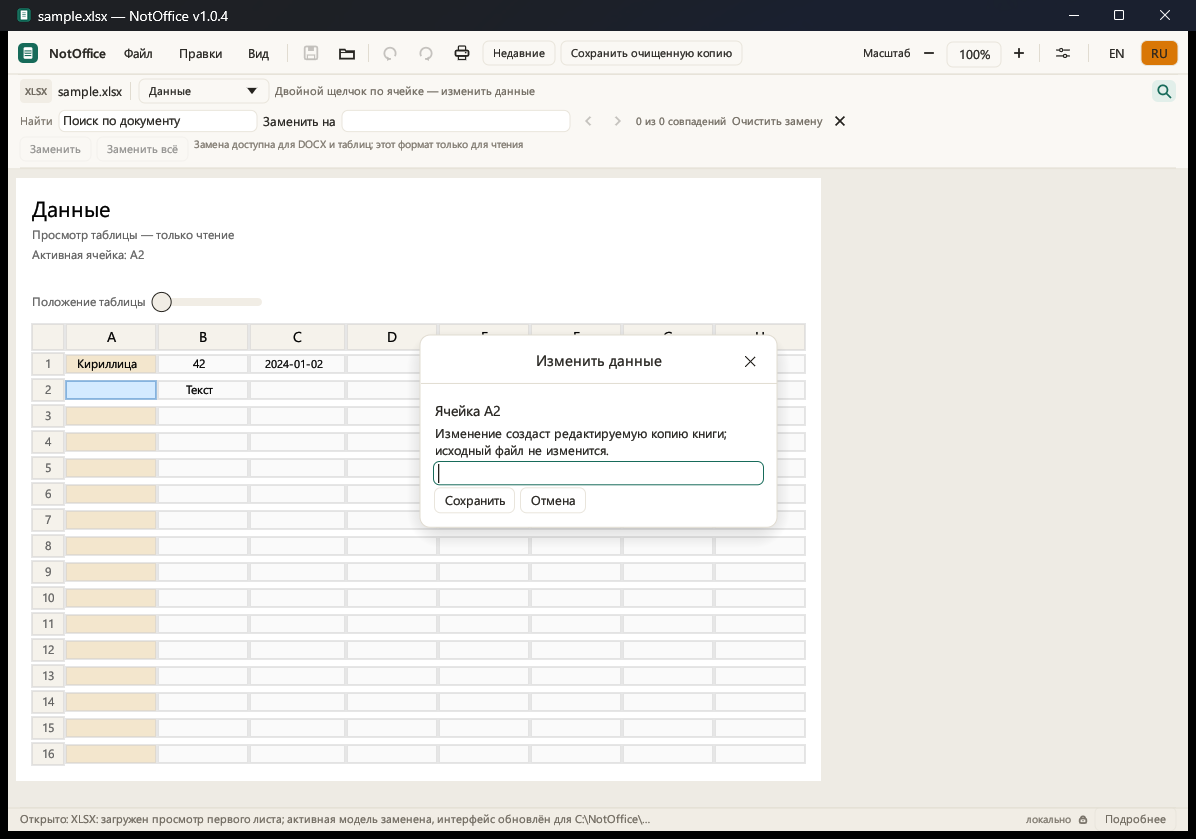
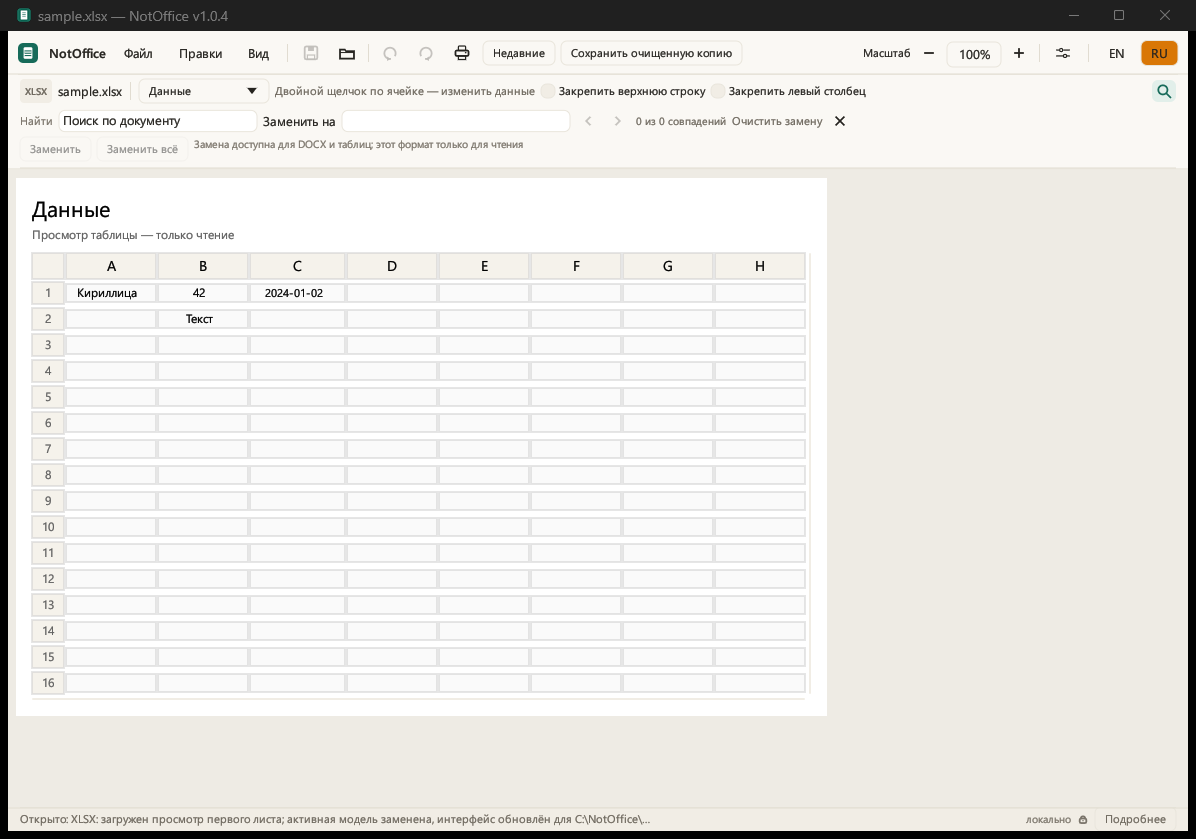
Add table row/column copy-paste and native horizontal scroll

diff --git a/site/index.html b/site/index.html
@@ -109,7 +109,7 @@
       <article class="feature-card">
         <div class="icon" aria-hidden="true">▦</div>
         <h3>Таблицы XLSX</h3>
-        <p>Правка ячеек, простые формулы <code>1+2</code> и <code>=A1+B1</code>, заполнение вниз, выбор строк/столбцов, очистка по Delete и ползунок положения.</p>
+        <p>Правка ячеек, простые формулы <code>1+2</code> и <code>=A1+B1</code>, заполнение вниз, выбор и копирование строк/столбцов, очистка по Delete и горизонтальная прокрутка.</p>
         <div class="tags"><span>формулы</span><span>заполнение</span><span>строки/столбцы</span></div>
       </article>
       <article class="feature-card">
@@ -209,7 +209,7 @@
       </div>
       <div class="release-grid">
         <article><span class="release-num">01</span><h3>Формулы в ячейке</h3><p>Наберите <code>1+2</code> или <code>=1+2</code>, нажмите Enter — в ячейке появится результат. Ссылки A1, скобки, <code>+ − × ÷</code>.</p></article>
-        <article><span class="release-num">02</span><h3>Таблицы удобнее</h3><p>Ползунок положения, стрелки на заголовках, Delete для выбранной строки/столбца и синий маркер заполнения вниз с продолжением последовательности.</p></article>
+        <article><span class="release-num">02</span><h3>Таблицы удобнее</h3><p>Горизонтальная прокрутка внизу, закрепление верхней строки/левого столбца, копирование строк/столбцов, Delete и заполнение вниз.</p></article>
         <article><span class="release-num">03</span><h3>Текст без сюрпризов</h3><p>Enter в DOCX переносит на новую строку и сохраняется, фокус не теряется. Поиск и замена всегда на виду.</p></article>
         <article><span class="release-num">04</span><h3>Меньше визуального шума</h3><p>Убраны лишние пункты меню. «Недавние» открываются в новом окне, recovery-каталоги можно удалить с подтверждением.</p></article>
       </div>
@@ -233,7 +233,7 @@
       <figure class="shot-card">
         <div class="app-bar"><i></i><i></i><i></i><span>XLSX · таблица</span></div>
         <img src="assets/notoffice-xlsx.png" alt="NotOffice с таблицей XLSX и диалогом изменения данных" width="1196" height="839" loading="lazy">
-        <figcaption>XLSX: правка через диалог, формулы и заголовки вместе с таблицей.</figcaption>
+        <figcaption>XLSX: правка через диалог, формулы, заголовки и горизонтальная прокрутка.</figcaption>
       </figure>
     </div>
   </section>
@@ -295,7 +295,7 @@
       </div>
       <div class="download-meta">
         <div class="meta-title">Контрольная сумма EXE</div>
-        <code id="sha">B7EBB52139920F4F54A1EE782328533DA05E4E13C0F60A90687F0D6B7CBA4694</code>
+        <code id="sha">8864BE8FF3B8065D294E80831082709B3EC2F658C0A31666D15F5ACBF894C4DA</code>
         <button class="copy-btn" id="copy-sha" type="button">Скопировать</button>
         <dl>
           <div><dt>Версия</dt><dd>1.0.4</dd></div>

diff --git a/src/spreadsheet_ui.rs b/src/spreadsheet_ui.rs
@@ -28,6 +28,13 @@ pub struct SpreadsheetDocument {
     pub cell_edit_request: Option<(usize, usize, String)>,
     pub freeze_top_row: bool,
     pub freeze_left_column: bool,
+    pub table_clipboard: Option<TableClipboard>,
+}
+
+#[derive(Clone, Debug, PartialEq, Eq)]
+pub enum TableClipboard {
+    Row(Vec<String>),
+    Column(Vec<String>),
 }
 
 #[derive(Clone, Copy, Debug, Default, PartialEq, Eq)]
@@ -257,6 +264,82 @@ impl SpreadsheetDocument {
         true
     }
 
+    pub fn copy_selected_row_or_column(&mut self) -> Option<String> {
+        let (row, column) = self
+            .selection
+            .row
+            .map(|row| {
+                (
+                    row,
+                    self.selected_cell.map(|(_, column)| column).unwrap_or(0),
+                )
+            })
+            .or_else(|| {
+                self.selection
+                    .column
+                    .map(|column| (self.selected_cell.map(|(row, _)| row).unwrap_or(0), column))
+            })
+            .or(self.selected_cell)?;
+        let sheet = self.selected_sheet()?;
+        let (clipboard, text) = if self.selection.row.is_some() {
+            let values = (0..sheet.column_count.min(16_384))
+                .map(|column| sheet.cell_value(row, column).to_owned())
+                .collect::<Vec<_>>();
+            (TableClipboard::Row(values.clone()), values.join("\t"))
+        } else {
+            let values = (0..sheet.row_count.min(10_000))
+                .map(|row| sheet.cell_value(row, column).to_owned())
+                .collect::<Vec<_>>();
+            (TableClipboard::Column(values.clone()), values.join("\n"))
+        };
+        self.table_clipboard = Some(clipboard);
+        Some(text)
+    }
+
+    pub fn paste_selected_row_or_column(&mut self) -> bool {
+        if self.editor.is_none() {
+            return false;
+        }
+        let Some(clipboard) = self.table_clipboard.clone() else {
+            return false;
+        };
+        let (row, column) = self
+            .selection
+            .row
+            .map(|row| {
+                (
+                    row,
+                    self.selected_cell.map(|(_, column)| column).unwrap_or(0),
+                )
+            })
+            .or_else(|| {
+                self.selection
+                    .column
+                    .map(|column| (self.selected_cell.map(|(row, _)| row).unwrap_or(0), column))
+            })
+            .or(self.selected_cell)
+            .unwrap_or((0, 0));
+        match clipboard {
+            TableClipboard::Row(values) => {
+                for (offset, value) in values.into_iter().enumerate() {
+                    if column + offset >= 16_384 {
+                        break;
+                    }
+                    self.set_cell_text(row, column + offset, value);
+                }
+            }
+            TableClipboard::Column(values) => {
+                for (offset, value) in values.into_iter().enumerate() {
+                    if row + offset >= 1_048_576 {
+                        break;
+                    }
+                    self.set_cell_text(row + offset, column, value);
+                }
+            }
+        }
+        true
+    }
+
     pub fn delete_selected_row_or_column(&mut self) -> bool {
         let row = self.selection.row;
         let column = self.selection.column;
@@ -398,6 +481,31 @@ impl SpreadsheetDocument {
                 .clicked()
             {
                 self.horizontal_offset += 160.0;
+            }
+            if ui
+                .button(tr!("Копировать строку/столбец", "Copy row/column"))
+                .on_hover_text(tr!(
+                    "Скопировать выбранную строку или столбец в буфер",
+                    "Copy the selected row or column to the clipboard"
+                ))
+                .clicked()
+            {
+                if let Some(text) = self.copy_selected_row_or_column() {
+                    ui.ctx().copy_text(text);
+                }
+            }
+            if ui
+                .add_enabled(
+                    self.table_clipboard.is_some(),
+                    egui::Button::new(tr!("Вставить строку/столбец", "Paste row/column")),
+                )
+                .on_hover_text(tr!(
+                    "Вставить скопированную строку или столбец в текущую позицию",
+                    "Paste the copied row or column at the current position"
+                ))
+                .clicked()
+            {
+                changed |= self.paste_selected_row_or_column();
             }
             if ui
                 .button(tr!("Вставить диапазон", "Paste range"))
@@ -802,24 +910,6 @@ fn render_cells(
                 );
                 ui.label(egui::RichText::new(format_display_value(sheet.cell_value(row, column), search.decimals).chars().take(2048).collect::<String>()).color(egui::Color32::BLACK));
             }
-            if let Some(edit) = edit.as_mut() {
-                ui.add_space(2.0 * zoom);
-                ui.horizontal(|ui| {
-                    ui.label(
-                        egui::RichText::new(tr!("Положение таблицы", "Table position"))
-                            .size(small_size)
-                            .color(egui::Color32::DARK_GRAY),
-                    );
-                    ui.add(
-                        egui::Slider::new(&mut edit.horizontal_offset, 0.0..=5_000.0)
-                            .show_value(false),
-                    )
-                    .on_hover_text(tr!(
-                        "Потяните ползунок или Shift + колесо мыши, чтобы двигать таблицу влево/вправо",
-                        "Drag to move the table left/right"
-                    ));
-                });
-            }
             ui.add_space(6.0 * zoom);
             if let Some(edit) = edit.as_mut() {
                 let shift_wheel = ui.rect_contains_pointer(ui.max_rect())
@@ -843,6 +933,7 @@ fn render_cells(
                 .unwrap_or(0.0);
             let scroll_output = egui::ScrollArea::both()
                 .id_source(("spreadsheet-cells", &sheet.sheet_name, rows.start, columns.start))
+                .scroll_bar_visibility(egui::scroll_area::ScrollBarVisibility::AlwaysVisible)
                 .horizontal_scroll_offset(scroll_offset)
                 .show(ui, |ui| {
                     egui::Grid::new("spreadsheet-grid")

diff --git a/src/main.rs b/src/main.rs
@@ -1577,6 +1577,63 @@ impl NotOfficeApp {
         }
     }
 
+    fn handle_table_clipboard_shortcuts(&mut self, ctx: &egui::Context) {
+        if self.decision_pending() || ctx.wants_keyboard_input() {
+            return;
+        }
+        let has_row_or_column = self
+            .spreadsheet
+            .as_ref()
+            .is_some_and(|book| book.selection.row.is_some() || book.selection.column.is_some());
+        if !has_row_or_column {
+            return;
+        }
+        if ctx.input_mut(|input| {
+            input.consume_key(egui::Modifiers::CTRL, egui::Key::C)
+                || input.consume_key(egui::Modifiers::COMMAND, egui::Key::C)
+        }) {
+            if let Some(text) = self
+                .spreadsheet
+                .as_mut()
+                .and_then(SpreadsheetDocument::copy_selected_row_or_column)
+            {
+                ctx.copy_text(text);
+                self.status = tr!(
+                    "Строка/столбец скопированы; выберите строку или столбец и нажмите Ctrl+V",
+                    "Row/column copied; select a row or column and press Ctrl+V"
+                )
+                .into();
+            }
+            return;
+        }
+        if ctx.input_mut(|input| {
+            input.consume_key(egui::Modifiers::CTRL, egui::Key::V)
+                || input.consume_key(egui::Modifiers::COMMAND, egui::Key::V)
+        }) {
+            if !self
+                .spreadsheet
+                .as_ref()
+                .is_some_and(|book| book.editor.is_some())
+            {
+                return;
+            }
+            let before = self.workbook_snapshot();
+            if self
+                .spreadsheet
+                .as_mut()
+                .is_some_and(SpreadsheetDocument::paste_selected_row_or_column)
+            {
+                self.record_workbook_edit(before);
+                self.search_dirty = true;
+                self.status = tr!(
+                    "Строка/столбец вставлены; Ctrl+Z отменяет",
+                    "Row/column pasted; Ctrl+Z undoes"
+                )
+                .into();
+            }
+        }
+    }
+
     fn handle_spreadsheet_undo_shortcut(&mut self, ctx: &egui::Context) {
         if self.decision_pending() {
             return;
@@ -4263,6 +4320,7 @@ impl NotOfficeApp {
         self.prepare_docx_focus(ctx);
         self.handle_edit_shortcuts(ctx);
         self.handle_spreadsheet_delete_shortcut(ctx);
+        self.handle_table_clipboard_shortcuts(ctx);
         if let Some(receiver) = self.print_receiver.as_ref() {
             match receiver.try_recv() {
                 Ok(message) => {

diff --git a/REPORT_1_0_4_RU.md b/REPORT_1_0_4_RU.md
@@ -42,8 +42,8 @@
 - Знаков после запятой — только отображение; значения не округляются.
 - Заголовки строк/столбцов находятся в общей прокручиваемой сетке, буквы
   центрированы; границы таблицы продолжены на заголовки.
-- Ползунок «Положение таблицы» поднят над таблицей; Shift + колесо мыши
-  двигает таблицу влево/вправо.
+- Ползунок заменён штатной горизонтальной прокруткой внизу таблицы;
+  Shift + колесо мыши двигает таблицу влево/вправо.
 - Двойной щелчок по ячейке в режиме просмотра открывает диалог «Изменить
   данные»; верхняя кнопка «Изменить значения» убрана.
 - Delete выбранной строки/столбца записывает одну точку Undo; Ctrl+Z,
@@ -51,6 +51,8 @@
 - Убрано дублирование recovery-уведомления и повторного tooltip.
 - Добавлено закрепление верхней строки и левого столбца: при прокрутке
   их значения остаются видимыми (в режиме просмотра и правки).
+- Строки и столбцы можно копировать в буфер и вставлять в текущую позицию
+  (кнопки и Ctrl+C/Ctrl+V); вставка отменяется через Ctrl+Z.
 
 ## NOT VERIFIED
 
@@ -62,9 +64,9 @@
 
 ## Сборка
 
-- `NotOffice-1.0.4.exe` — 4 546 560 байт.
+- `NotOffice-1.0.4.exe` — 4 538 880 байт.
 - Архивы portable/sources и `SHA256SUMS.txt` — рядом.
 
 Принятый 1.0.0 сохранён; 1.0.3 заменён текущей сборкой. SHA-256:
[2 lines of base64/hex data omitted]
 Снимки: `evidence/ui-fixes-1.0.4/`.

diff --git a/CHANGELOG_1.0.4_RU.md b/CHANGELOG_1.0.4_RU.md
@@ -27,7 +27,7 @@
 
 - Ошибка формулы показывается в подсказке у поля формулы, не сдвигая панель.
 - Enter вычисляет формулу прямо в ячейке: `1+2` и `=1+2` дают результат.
-- Добавлен ползунок положения таблицы.
+- Добавлена горизонтальная прокрутка таблицы снизу.
 - Курсор-стрелка и подсказка на заголовках, Delete очищает выбранную строку/столбец.
 - Синий маркер у активной ячейки заполняет вниз копией или последовательностью.
 
@@ -43,7 +43,7 @@
 
 - Заголовки строк/столбцов внутри сетки: буквы и номера двигаются вместе с таблицей,
   центрированы, границы таблицы продолжаются вверх.
-- Ползунок положения вынесен над таблицей; Shift + колесо мыши двигает влево/вправо.
+- Штатная горизонтальная прокрутка внизу; Shift + колесо мыши двигает влево/вправо.
 - Двойной щелчок по ячейке в просмотре открывает диалог «Изменить данные»;
   верхняя кнопка «Изменить значения» убрана.
 - Delete выбранной строки/столбца создаёт Undo-точку; Ctrl+Z, кнопка и меню
@@ -51,3 +51,5 @@
 - Убрано двойное recovery-уведомление/повторный tooltip.
 
 - XLSX: закрепление верхней строки и левого столбца при прокрутке.
+
+- Копирование/вставка выбранной строки или столбца (кнопки и Ctrl+C/Ctrl+V).

diff --git a/STATUS_RU.md b/STATUS_RU.md
@@ -23,7 +23,7 @@
 Общий анализ потерь всех преобразований, предупреждения о замене шрифтов,
 восстановление рабочего набора и общий сброс настроек в этот выпуск не входят.
 Они не считаются обязательным долгом только потому, что обсуждались в промпте.
-Словари не добавлялись. В 1.0.4 добавлены простые формулы XLSX, заполнение вниз, выбор строк/столбцов и ползунок таблицы.
+Словари не добавлялись. В 1.0.4 добавлены простые формулы XLSX, заполнение вниз, выбор строк/столбцов и горизонтальная прокрутка, копирование строк/столбцов и закрепление шапки.
 
 ## Исправление 1.0.4
 
